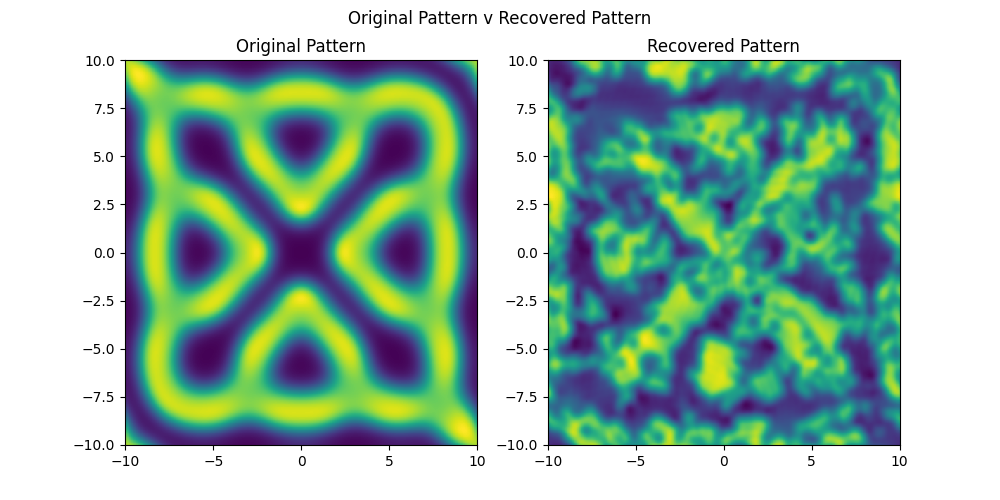
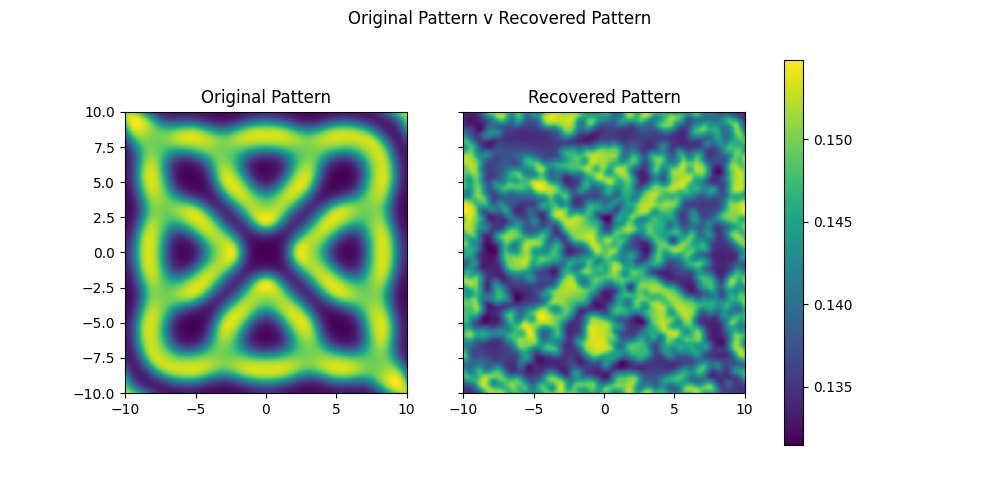
Small adjustments to plot and animation finish

diff --git a/varied-gs.py b/varied-gs.py
@@ -85,15 +85,20 @@ n = 15
 stencil = np.ones((n,n))/(n*n)
 recovered_pattern = nested_pattern['Inhibitor']
 # recovered_pattern = ndimage.convolve(recovered_pattern, stencil, mode='wrap')
-# recovered_pattern = ndimage.gaussian_filter(recovered_pattern, 5.5, mode='wrap')
+recovered_pattern = ndimage.gaussian_filter(recovered_pattern, 5.5, mode='wrap')
 
-fig, ax = plt.subplots(nrows=1, ncols=2, figsize=(10, 5))
+fig, ax = plt.subplots(nrows=1, ncols=2, figsize=(10, 5), sharey=True)
 
 fig.suptitle("Original Pattern v Recovered Pattern")
 ax[0].pcolormesh(x,y,original_pattern['Inhibitor'])
 ax[0].set_title("Original Pattern")
-ax[1].pcolormesh(x,y,recovered_pattern)
+quad=ax[1].pcolormesh(x,y,recovered_pattern)
 ax[1].set_title("Recovered Pattern")
 
+
+ax[0].set_box_aspect(1.0)
+ax[1].set_box_aspect(1.0)
+
+cb = fig.colorbar(quad, ax=ax.ravel().tolist())
 plt.show()
-fig.savefig("plots/original_v_recovered.png")
+fig.savefig("plots/original_v_recovered_gauss.png")
